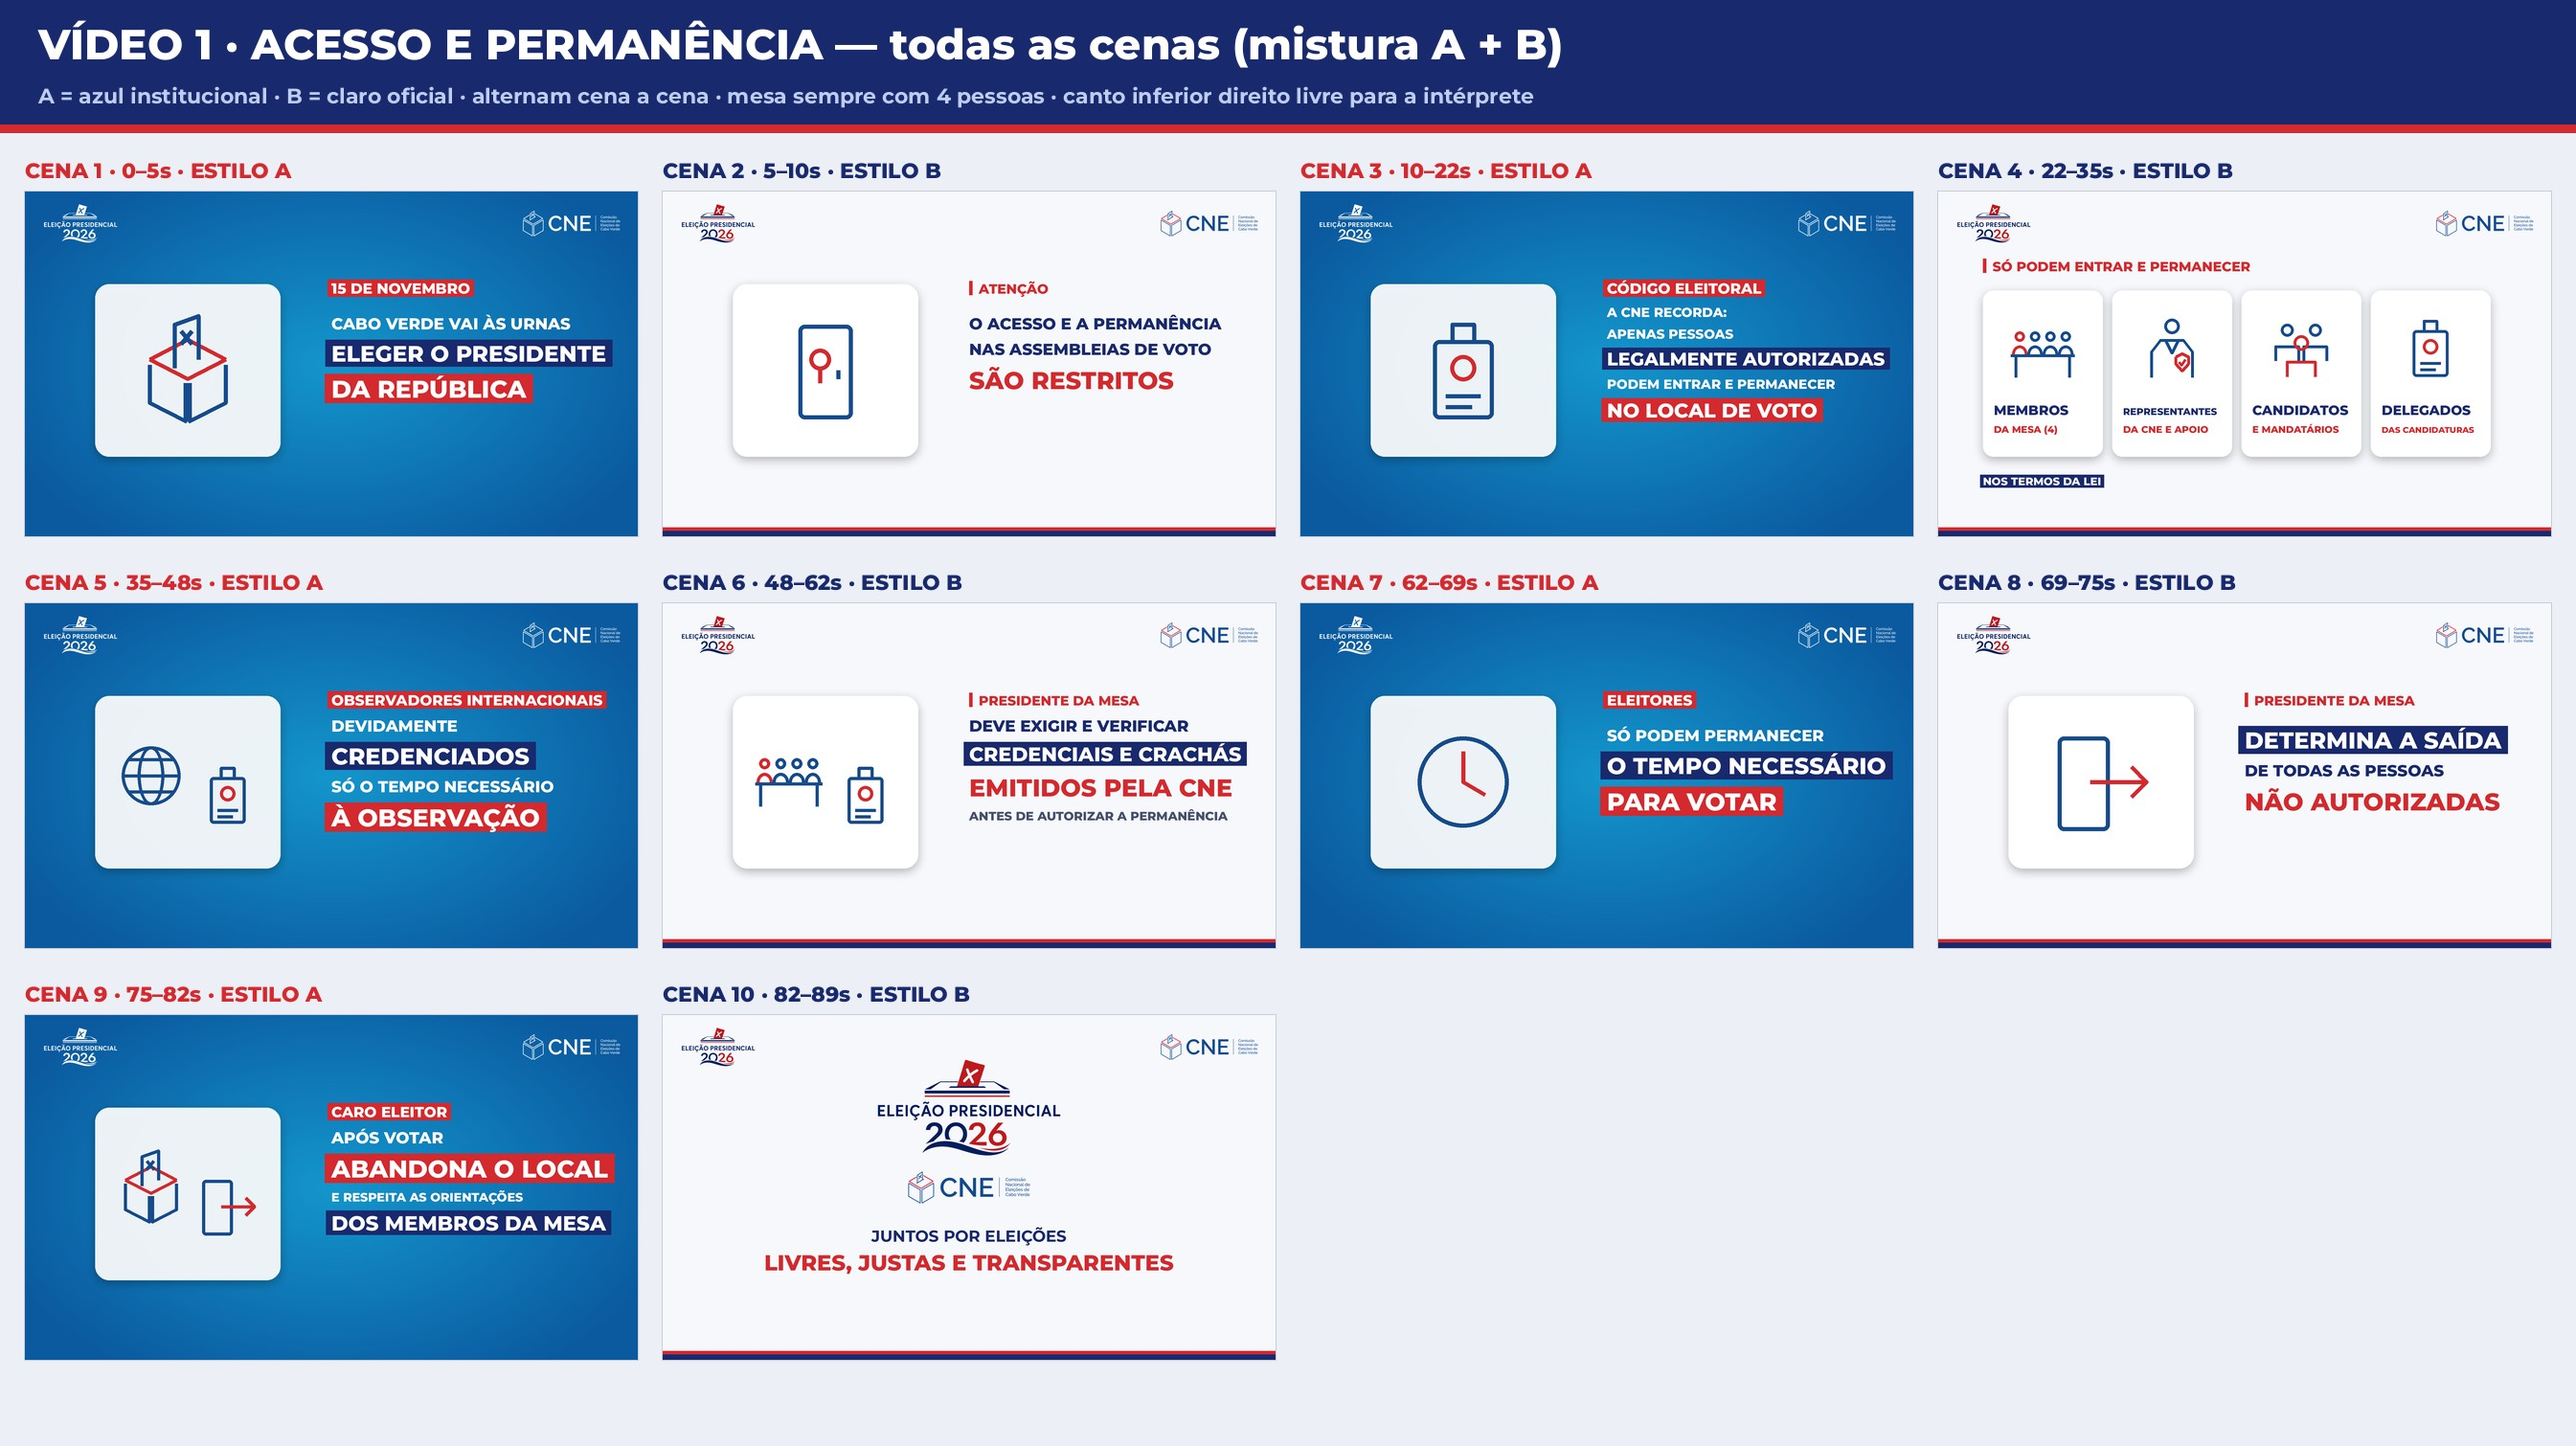
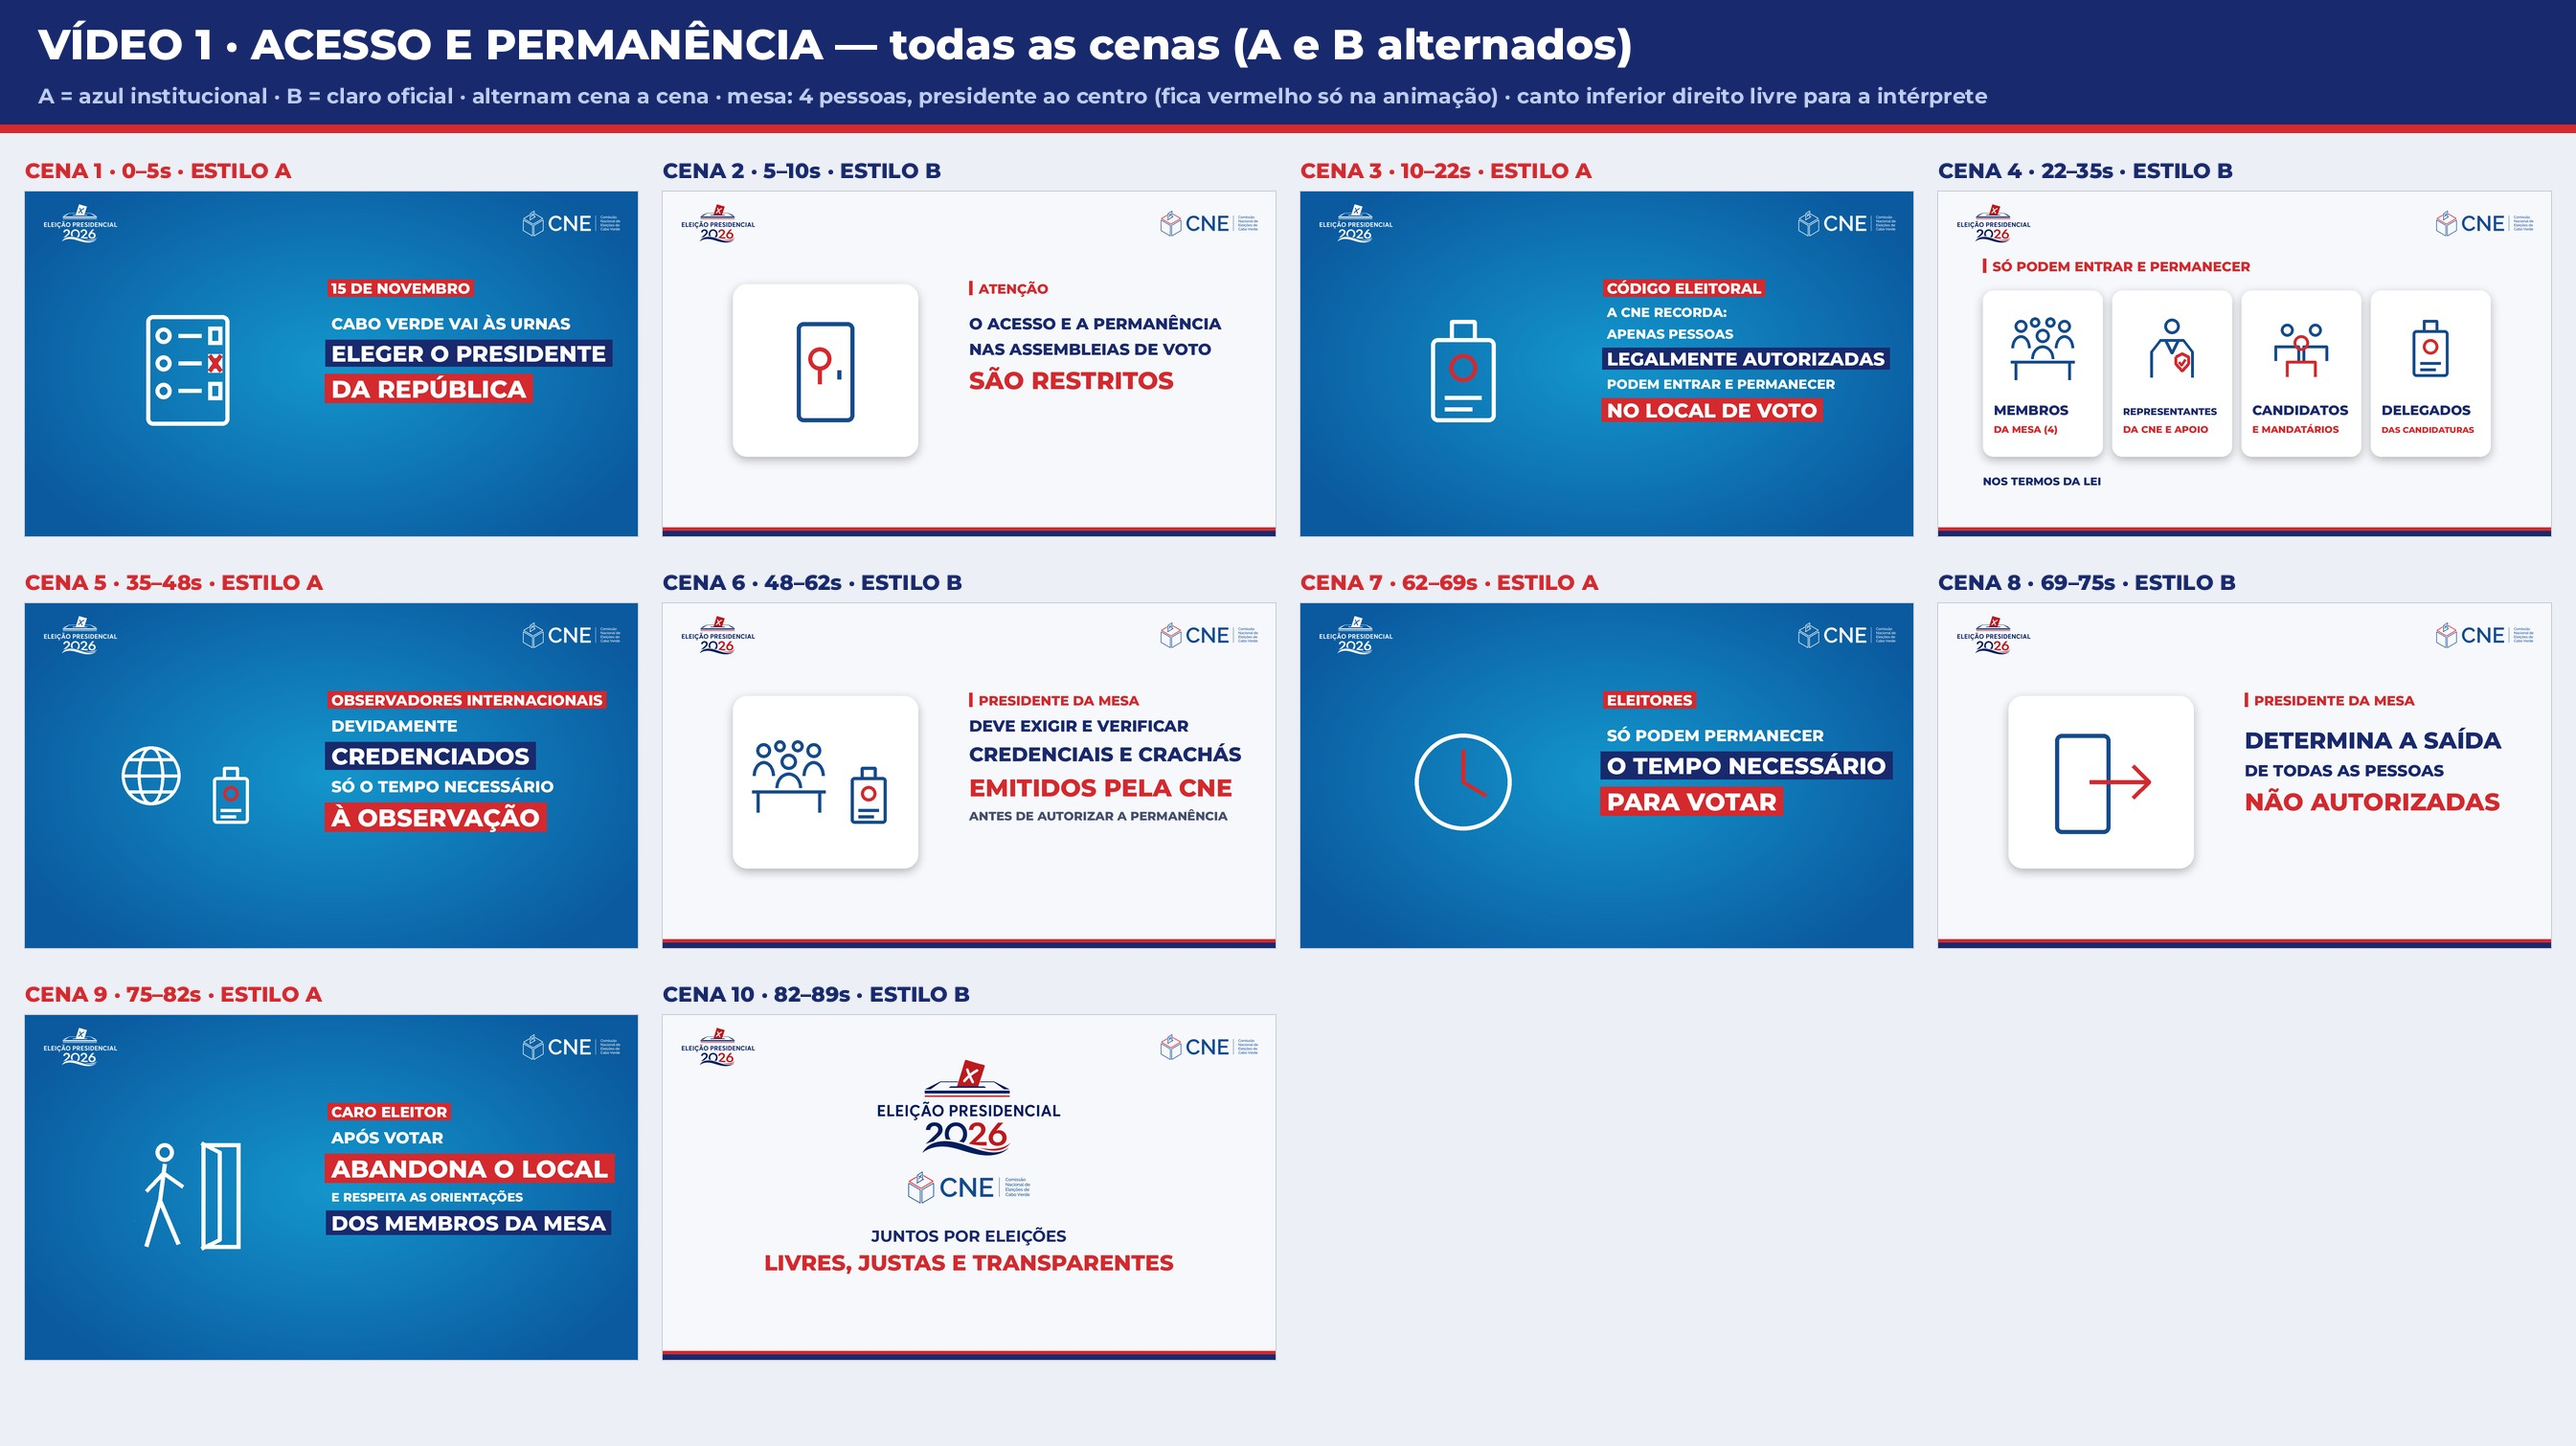
Blueprint V1: A e B separados, ícones mais representativos, presidente ao centro
Claude-Session: https://claude.ai/code/session_01B7qCVcC1uXVL2xuSSAUW2M

diff --git a/comunicado_regras/novos_src/bp_v1all.py b/comunicado_regras/novos_src/bp_v1all.py
@@ -9,16 +9,26 @@ def icon(b,kind,cx,cy,s,col,acc=RED,w=None):
     def ln(*pts,c=col): d.line([P(*p) for p in pts],fill=c,width=w,joint='curve')
     def el(x0,y0,x1,y1,c=col): d.ellipse((*P(x0,y0),*P(x1,y1)),outline=c,width=w)
     def ar(x0,y0,x1,y1,c=col): d.arc((*P(x0,y0),*P(x1,y1)),180,360,fill=c,width=w)
-    if kind=='mesa4':   # sempre 4 pessoas na mesa
-        for i,x in enumerate((14,38,62,86)):
-            c=acc if i==0 else col; el(x-8,24,x+8,40,c); ar(x-12,46,x+12,74,c)
-        ln((0,62),(100,62)); ln((8,62),(8,96)); ln((92,62),(92,96)); return
+    if kind=='mesa4':   # 4 pessoas, presidente da mesa ao centro e à frente; tudo da mesma cor
+        for x in (16,84): el(x-10,6,x+10,26); ar(x-15,30,x+15,70)
+        el(30,2,46,18); el(54,2,70,18)
+        el(39,20,61,42); ar(32,46,68,88)
+        ln((0,72),(100,72)); ln((8,72),(8,100)); ln((92,72),(92,100)); return
     if kind=='cne':     # representante da CNE: pessoa com colete + escudo/crachá
         el(38,4,62,28); ln((18,96),(18,56),(32,38),(68,38),(82,56),(82,96)); ln((40,38),(50,58),(60,38))
         ln((56,64),(66,59),(76,64),(76,75),(66,86),(56,75),(56,64),c=acc); ln((61,72),(65,77),(71,68),c=acc); return
+    if kind=='boletim': # boletim de voto presidencial: candidatos com quadrados, um marcado com X
+        d.rounded_rectangle((*P(14,2),*P(86,98)),int(6*k),outline=col,width=w)
+        for i,y in enumerate((20,44,68)):
+            el(22,y-7,36,y+7); ln((42,y),(62,y)); d.rectangle((*P(68,y-8),*P(80,y+8)),outline=col,width=w)
+        ln((69,37),(79,51),c=acc); ln((79,37),(69,51),c=acc); return
+    if kind=='eleitor_sai': # eleitor a sair pela porta, a caminhar, com seta
+        d.rectangle((*P(62,6),*P(96,98)),outline=col,width=w); ln((62,98),(78,90),(78,14),(62,6))
+        el(22,6,38,22); ln((30,24),(26,56)); ln((26,56),(14,96)); ln((26,56),(42,94)); ln((29,32),(14,48)); ln((29,32),(46,44))
+        ln((4,74),(4,74)); return
     _icon(b,kind,cx,cy,s,col,acc,w)
 S=[ # (estilo, t, ícones, kicker, linhas[(texto,papel)])
- ('A','0–5s',['urna'],'15 DE NOVEMBRO',[('CABO VERDE VAI ÀS URNAS','n'),('ELEGER O PRESIDENTE','b'),('DA REPÚBLICA','r')]),
+ ('A','0–5s',['boletim'],'15 DE NOVEMBRO',[('CABO VERDE VAI ÀS URNAS','n'),('ELEGER O PRESIDENTE','b'),('DA REPÚBLICA','r')]),
  ('B','5–10s',['porta'],'ATENÇÃO',[('O ACESSO E A PERMANÊNCIA','n'),('NAS ASSEMBLEIAS DE VOTO','n'),('SÃO RESTRITOS','r')]),
  ('A','10–22s',['cracha'],'CÓDIGO ELEITORAL',[('A CNE RECORDA:','n'),('APENAS PESSOAS','n'),('LEGALMENTE AUTORIZADAS','b'),('PODEM ENTRAR E PERMANECER','n'),('NO LOCAL DE VOTO','r')]),
  ('B','22–35s','LISTA','SÓ PODEM ENTRAR E PERMANECER',None),
@@ -26,7 +36,7 @@ S=[ # (estilo, t, ícones, kicker, linhas[(texto,papel)])
  ('B','48–62s',['mesa4','cracha'],'PRESIDENTE DA MESA',[('DEVE EXIGIR E VERIFICAR','n'),('CREDENCIAIS E CRACHÁS','b'),('EMITIDOS PELA CNE','r'),('ANTES DE AUTORIZAR A PERMANÊNCIA','s')]),
  ('A','62–69s',['relogio'],'ELEITORES',[('SÓ PODEM PERMANECER','n'),('O TEMPO NECESSÁRIO','b'),('PARA VOTAR','r')]),
  ('B','69–75s',['saida'],'PRESIDENTE DA MESA',[('DETERMINA A SAÍDA','b'),('DE TODAS AS PESSOAS','n'),('NÃO AUTORIZADAS','r')]),
- ('A','75–82s',['urna','saida'],'CARO ELEITOR',[('APÓS VOTAR','n'),('ABANDONA O LOCAL','r'),('E RESPEITA AS ORIENTAÇÕES','s'),('DOS MEMBROS DA MESA','b')]),
+ ('A','75–82s',['eleitor_sai'],'CARO ELEITOR',[('APÓS VOTAR','n'),('ABANDONA O LOCAL','r'),('E RESPEITA AS ORIENTAÇÕES','s'),('DOS MEMBROS DA MESA','b')]),
  ('B','82–89s','FIM',None,[('JUNTOS POR ELEIÇÕES','n'),('LIVRES, JUSTAS E TRANSPARENTES','r')])]
 SZ={'n':50,'b':72,'r':76,'s':38}
 def fit(t,sz,mw):
@@ -39,8 +49,7 @@ def textblock(b,st,x,y,lines,mw=840):
         if st=='A':   # A: caixas navy/vermelho em fundo azul
             tag(b,x,y,t,sz,{'n':'plain','s':'plain','b':'navy','r':'red'}[ro])
         else:         # B: texto navy/vermelho em fundo claro + traço vermelho (mistura com caixa navy do A no 'b')
-            if ro=='b': tag(b,x,y,t,sz,'navy')
-            else: tag(b,x,y,t,sz,'plain',{'n':NAVY,'s':(70,80,110),'r':RED}[ro])
+            tag(b,x,y,t,sz,'plain',{'n':NAVY,'b':NAVY,'s':(70,80,110),'r':RED}[ro])
         y+=int(sz*.32)+12
     return y
 def scene(sc):
@@ -56,17 +65,15 @@ def scene(sc):
             card(b,(x,y,x+375,y+520),WHITE,32)
             icon(b,ic,x+187,y+180,200,CBLUE,RED,w=9)
             tag(b,x+34,y+390,a,fit(a,42,310),'plain',NAVY); tag(b,x+34,y+446,c,fit(c,30,310),'plain',RED)
-        tag(b,140,920,'NOS TERMOS DA LEI',34,'navy'); return b
+        tag(b,140,920,'NOS TERMOS DA LEI',34,'plain',NAVY); return b
     if ics=='FIM':
         paste(b,LOGO_COR,960-int(LOGO_COR.width*300/LOGO_COR.height)//2,140,300); paste(b,LOGO_CNE,960-int(LOGO_CNE.width*100/LOGO_CNE.height)//2,490,100)
         d=ImageDraw.Draw(b); d.text((960,710),'JUNTOS POR ELEIÇÕES',font=f(50,7),fill=NAVY,anchor='ms'); d.text((960,800),'LIVRES, JUSTAS E TRANSPARENTES',font=f(68),fill=RED,anchor='ms'); return b
-    # cartão branco com ícone(s) à esquerda (elemento do B, também no A)
-    if st=='A': card(b,(220,290,800,830),(255,255,255,235),44)
-    else: card(b,(220,290,800,830),WHITE,44)
-    ci=CBLUE
-    if len(ics)==1: icon(b,ics[0],510,560,340,ci,RED,w=13)
+    ci=WHITE if st=='A' else CBLUE
+    if st=='B': card(b,(220,290,800,830),WHITE,44)
+    if len(ics)==1: icon(b,ics[0],510,560,360,ci,RED,w=13)
     else:
-        icon(b,ics[0],395,540,230 if ics[0]!='mesa4' else 210,ci,RED,w=10); icon(b,ics[1],635,600,200,ci,RED,w=10)
+        icon(b,ics[0],395,540,230 if ics[0]!='mesa4' else 230,ci,RED,w=10); icon(b,ics[1],645,600,200,ci,RED,w=10)
     kicker(b,st,960,320,kick)
     textblock(b,st,960,350 if len(lines)>=4 else 380,lines,mw=880)
     return b
@@ -74,8 +81,8 @@ tw,th=640,360; gap=26; top=200; cols=4; rows=3
 BW=gap+cols*(tw+gap); BH=top+rows*(th+70)+20
 bd=Image.new('RGB',(BW,BH),(236,239,245)); d=ImageDraw.Draw(bd)
 d.rectangle((0,0,BW,130),fill=NAVY); d.rectangle((0,130,BW,138),fill=RED)
-d.text((40,62),'VÍDEO 1 · ACESSO E PERMANÊNCIA — todas as cenas (mistura A + B)',font=f(44),fill=WHITE,anchor='ls')
-d.text((40,108),'A = azul institucional · B = claro oficial · alternam cena a cena · mesa sempre com 4 pessoas · canto inferior direito livre para a intérprete',font=f(22,7),fill=(190,205,240),anchor='ls')
+d.text((40,62),'VÍDEO 1 · ACESSO E PERMANÊNCIA — todas as cenas (A e B alternados)',font=f(44),fill=WHITE,anchor='ls')
+d.text((40,108),'A = azul institucional · B = claro oficial · alternam cena a cena · mesa: 4 pessoas, presidente ao centro (fica vermelho só na animação) · canto inferior direito livre para a intérprete',font=f(22,7),fill=(190,205,240),anchor='ls')
 for i,sc in enumerate(S):
     x=gap+(i%cols)*(tw+gap); y=top+(i//cols)*(th+70)
     d.text((x,y-14),f'CENA {i+1} · {sc[1]} · ESTILO {sc[0]}',font=f(22),fill=NAVY if sc[0]=='B' else RED,anchor='ls')
